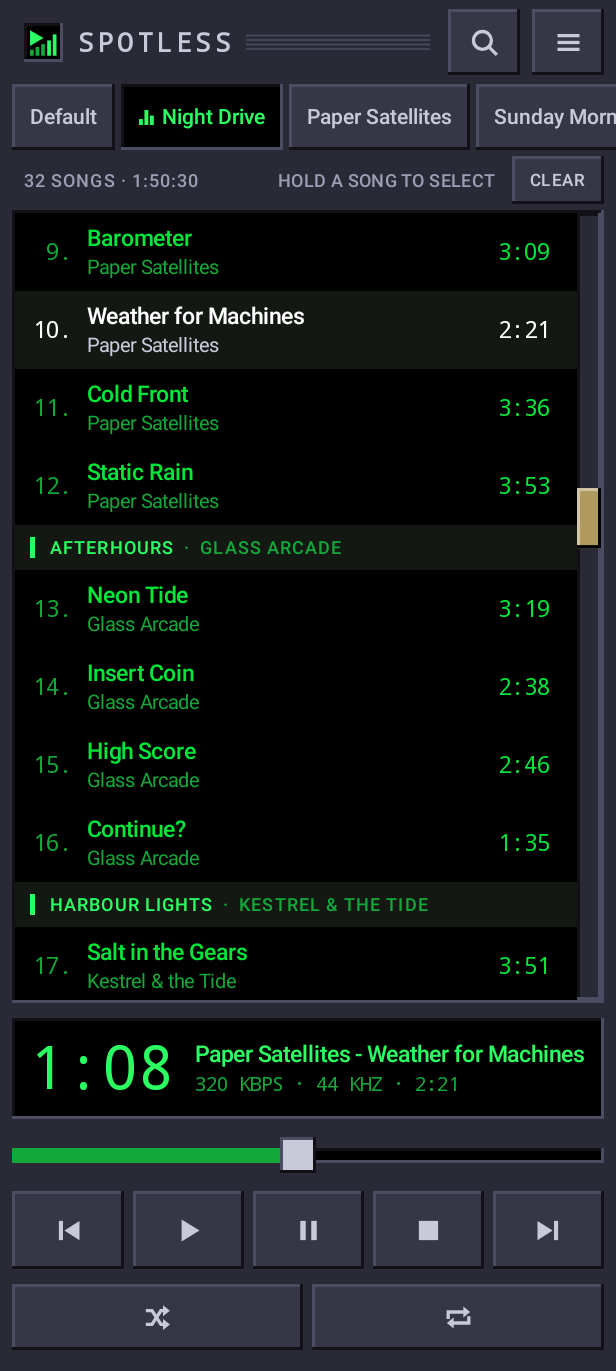
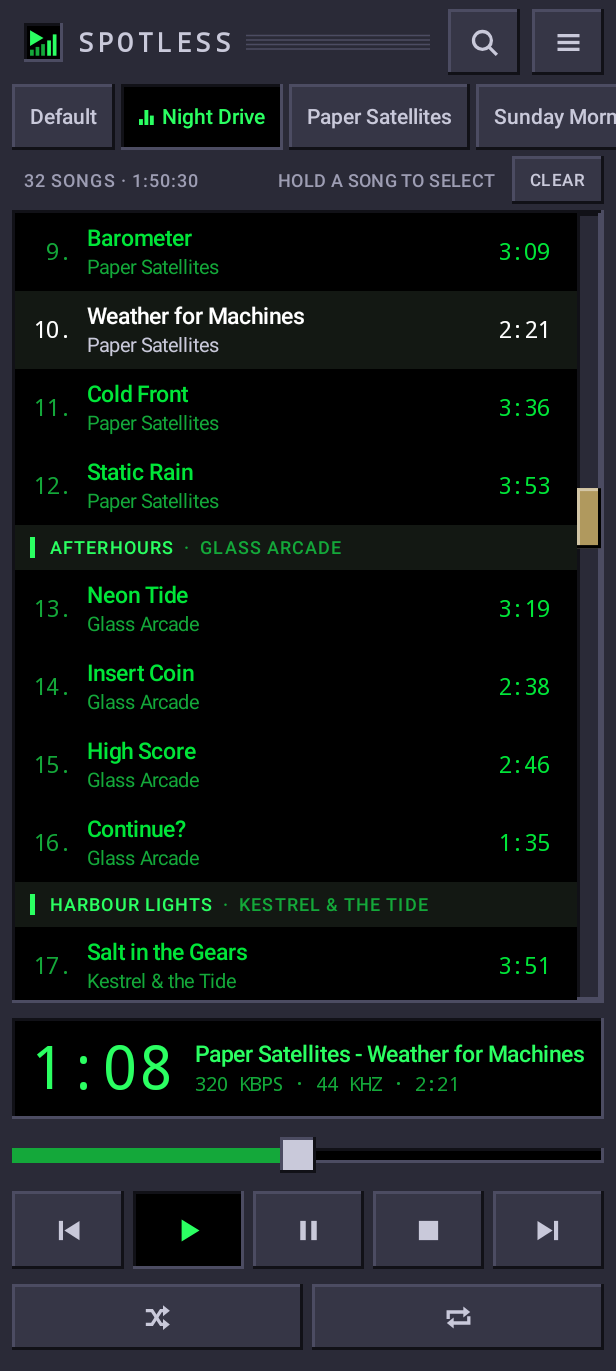
Play stays pressed in while a song plays, Pause while it's paused
As Winamp's toggles do: Stop doesn't. Play counts a loading song as
playing, and Pause a song waiting offline as paused. The README
screenshots show Play pressed in.

Claude-Session: https://claude.ai/code/session_01MNhAZjmwJfSw221VYWBjQQ

Changed region(s): [[0.2159, 0.8578, 0.401, 0.9497]]

diff --git a/android/app/src/main/java/dev/spotless/ui/Player.kt b/android/app/src/main/java/dev/spotless/ui/Player.kt
@@ -114,8 +114,12 @@ fun PlayerPanel(core: Core) {
         Row(horizontalArrangement = Arrangement.spacedBy(6.dp)) {
             val wide = Modifier.weight(1f).height(52.dp)
             GlyphButton(Glyph.Previous, "Previous", { core.apply(Action.Previous) }, wide, ready)
-            GlyphButton(Glyph.Play, "Play", { core.apply(Action.Play) }, wide, ready)
-            GlyphButton(Glyph.Pause, "Pause", { core.apply(Action.TogglePause) }, wide, ready)
+            // Play stays pressed in while a song plays, Pause while it is paused; Stop never.
+            GlyphButton(Glyph.Play, "Play", { core.apply(Action.Play) }, wide, ready, on = playing(player))
+            GlyphButton(
+                Glyph.Pause, "Pause", { core.apply(Action.TogglePause) }, wide, ready,
+                on = player.status == Status.PAUSED,
+            )
             GlyphButton(Glyph.Stop, "Stop", { core.apply(Action.Stop) }, wide, ready)
             GlyphButton(Glyph.Next, "Next", { core.apply(Action.Next) }, wide, ready)
         }

diff --git a/android/app/src/main/java/dev/spotless/ui/Widgets.kt b/android/app/src/main/java/dev/spotless/ui/Widgets.kt
@@ -181,14 +181,15 @@ fun GlyphButton(
     onClick: () -> Unit,
     modifier: Modifier = Modifier,
     enabled: Boolean = true,
-    lit: Boolean = false,
+    on: Boolean = false,
+    lit: Boolean = on,
 ) {
     val color = when {
         !enabled -> Classic.label
         lit -> Classic.lcd
         else -> Classic.chrome
     }
-    ChromeButton(onClick, modifier, enabled = enabled, description = description) {
+    ChromeButton(onClick, modifier, on, enabled, description) {
         Box(Modifier.defaultMinSize(22.dp, 22.dp).drawBehind { glyph(glyph, color) })
     }
 }

diff --git a/src/ui/player_strip.rs b/src/ui/player_strip.rs
@@ -115,6 +115,16 @@ fn draw_title(ui: &Ui, rect: Rect, view: &View) {
     }
 }
 
+/// Which of Play and Pause stay pressed in: Play while a song plays,
+/// Pause while it is paused. Stop never does.
+pub(super) fn held(view: &View) -> [bool; 2] {
+    let status = view.player.status;
+    [
+        matches!(status, Status::Playing | Status::Loading),
+        status == Status::Paused,
+    ]
+}
+
 /// Whether the time's digits show: while paused they blink, as in
 /// Winamp; the colon stays.
 pub(super) fn time_shown(ui: &Ui, view: &View) -> bool {
@@ -322,10 +332,11 @@ fn buttons_row(ui: &mut Ui, view: &View, inputs: &mut Inputs, actions: &mut Acti
     if glyph_button(ui, &palette, Glyph::Previous, ready).clicked() {
         actions.push(Action::Previous);
     }
-    if glyph_button(ui, &palette, Glyph::Play, ready).clicked() {
+    let [playing, paused] = held(view);
+    if glyph_toggle(ui, &palette, Glyph::Play, playing, ready).clicked() {
         actions.push(Action::Play);
     }
-    if glyph_button(ui, &palette, Glyph::Pause, ready).clicked() {
+    if glyph_toggle(ui, &palette, Glyph::Pause, paused, ready).clicked() {
         actions.push(Action::TogglePause);
     }
     if glyph_button(ui, &palette, Glyph::Stop, ready).clicked() {

diff --git a/src/ui/skinned_strip.rs b/src/ui/skinned_strip.rs
@@ -12,7 +12,7 @@ use egui::{
 };
 
 use super::player_strip::{
-    HEIGHT, display_clicked, eject_clicked, eq_clicked, length, now_lines, pl_clicked, rates,
+    HEIGHT, display_clicked, eject_clicked, eq_clicked, held, length, now_lines, pl_clicked, rates,
     time_shown,
 };
 use super::skin_paint::SkinPaint;
@@ -518,21 +518,15 @@ fn buttons_row(
         x += size.x;
         at
     };
+    let [playing, paused] = held(view);
     for (name, label, action) in TRANSPORT {
         let at = place(name, 0.0);
-        if button(
-            ui,
-            &painter,
-            paint,
-            at,
-            unit,
-            name,
-            State::Normal,
-            label,
-            ready,
-        )
-        .clicked()
-        {
+        let state = toggle_state(match name {
+            "play" => playing,
+            "pause" => paused,
+            _ => false,
+        });
+        if button(ui, &painter, paint, at, unit, name, state, label, ready).clicked() {
             actions.push(action);
         }
     }
